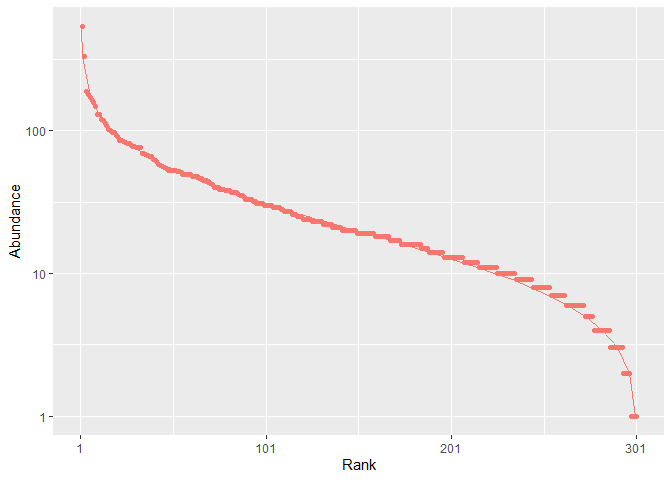
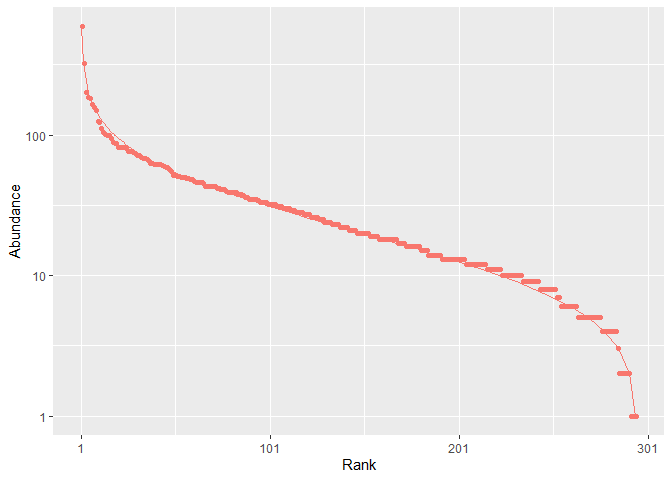
updated README

diff --git a/README.md b/README.md
@@ -1,7 +1,7 @@
 
 <!-- README.md is generated from README.Rmd. Please edit that file -->
 
-# Diversity measures based on Entropy<img src="man/figures/logo.png" align="right" alt="" width="120" />
+# Diversity measures based on Entropy<img src="man/figures/logo.png" align="right" width="120"/>
 
 <!-- badges: start -->
 
@@ -13,16 +13,24 @@
 version](https://www.r-pkg.org/badges/version/divent)](https://CRAN.r-project.org/package=divent)
 [![](https://cranlogs.r-pkg.org/badges/grand-total/divent)](https://CRAN.R-project.org/package=divent)
 [![](https://cranlogs.r-pkg.org/badges/divent)](https://CRAN.R-project.org/package=divent)
+
 <!-- badges: end -->
 
-**divent** is an R package that provides functions to estimate alpha,
-beta and gamma diversity of communities, including phylogenetic and
+`divent` is an R package that provides functions to estimate alpha, beta
+and gamma diversity of communities, including phylogenetic and
 functional diversity.
 
-It is a reboot of the package **entropart** to make it tidy, easier to
-use and optimize the code that has been added along years of research.
+It is a reboot of the `entropart` package to make it tidy, easier to use
+and optimize the code that has been added along years of research.
 
 ## Installation
+
+Install the package from CRAN. The current version is in the CRAN badge
+above.
+
+``` r
+install.packages("divent")
+```
 
 You can install the development version of divent from
 [GitHub](https://github.com/) with:
@@ -32,7 +40,9 @@ You can install the development version of divent from
 pak::pak("EricMarcon/divent")
 ```
 
-## Details
+## Overview
+
+### Data organisation
 
 In the divent package, individuals of different *species* are counted in
 several *communities* which may (or not) be aggregated to define a
@@ -62,18 +72,30 @@ abd |>
   plot(type = "Metacommunity")
 ```
 
-<img src="man/figures/README-MetaCommunitydf-1.png" width="100%" />
+<img src="man/figures/README-MetaCommunitydf-1.png" alt="" width="100%" />
 
-Basic functions allow computing diversity of a community. Example data
-is a 6.25ha plot of rainforest in Paracou, French Guiana, divided into 4
-subplots.
+Communities can be simulated and plotted.
+
+``` r
+rc <- rcommunity(1, size = 10000, distribution = "lnorm")
+autoplot(rc, fit_rac = TRUE, distribution = "lnorm")
+```
+
+<img src="man/figures/README-rcommunity-1.png" alt="" width="100%" />
+
+Example data is a 6.25-ha plot of rainforest in Paracou, French Guiana,
+divided into 4 subplots.
 
 ``` r
 paracou_6_abd |>
   autoplot()
 ```
 
-<img src="man/figures/README-unnamed-chunk-2-1.png" width="100%" />
+<img src="man/figures/README-paracou6-1.png" alt="" width="100%" />
+
+### Taxonomic diversity
+
+Basic functions allow computing diversity of a community.
 
 Entropies such as Shannon’s, Simpson’s, or Hurlbert’s, and explicit
 diversity (i.e. effective number of species), aka Hill numbers, are
@@ -114,16 +136,9 @@ to the data. Diversity profiles are estimated.
 profile_hill(paracou_6_abd) %>% autoplot
 ```
 
-<img src="man/figures/README-div_profile-1.png" width="100%" />
+<img src="man/figures/README-div_profile-1.png" alt="" width="100%" />
 
-Communities can be simulated and plotted.
-
-``` r
-rc <- rcommunity(1, size = 10000, distribution = "lnorm")
-autoplot(rc, fit_rac = TRUE, distribution = "lnorm")
-```
-
-<img src="man/figures/README-rcommunity-1.png" width="100%" />
+### Phylogenetic diversity
 
 Phylogenetic entropy and diversity can be calculated if a phylogenetic
 (or functional), ultrametric tree is provided, with the state-of-the-art
@@ -141,6 +156,8 @@ div_phylo(paracou_6_abd, tree = paracou_6_taxo, q = 1)
 #> 4 subplot_4   1.56 UnveilJ        43.2
 ```
 
+### Functional diversity
+
 Similarity-based diversity is calculated, based on a similarity matrix.
 
 ``` r
@@ -156,6 +173,8 @@ div_similarity(paracou_6_abd, similarities = Z, q = 2)
 #> 3 subplot_3   1.56 UnveilJ       2      1.32
 #> 4 subplot_4   1.56 UnveilJ       2      1.30
 ```
+
+### Diversity partitioning
 
 The diversity of a metacommunity, i.e. $\gamma$ diversity, can be
 partitioned into $\alpha$ (that of communities) and $\beta$ diversities.
@@ -175,7 +194,7 @@ div_part(paracou_6_abd, q = 1)
 #> 7 subplot_4     community "UnveilJ"     1     94.6    1.56
 ```
 
-## Vignettes
+## Documentation
 
 A quick
 [introduction](https://ericmarcon.github.io/divent/articles/divent.html)
@@ -187,7 +206,7 @@ the web site of the vignette.
 The [documentation of the development
 version](https://EricMarcon.github.io/divent/dev/) is also available.
 
-## Reference
+## Citation
 
-Marcon, E. and Herault, B. (2015). entropart: An R Package to Measure
-and Partition Diversity. *Journal of Statistical Software*. 67(8): 1-26.
+Marcon, E. & Puech, F. (under review). divent : An R Package for
+Diversity Measures Based on Entropy. *Journal of Open Source Software*.

diff --git a/NEWS.md b/NEWS.md
@@ -1,4 +1,4 @@
-# divent 0.5-4.9013
+# divent 0.5-4.9014
 
 ## Bug correction
 
